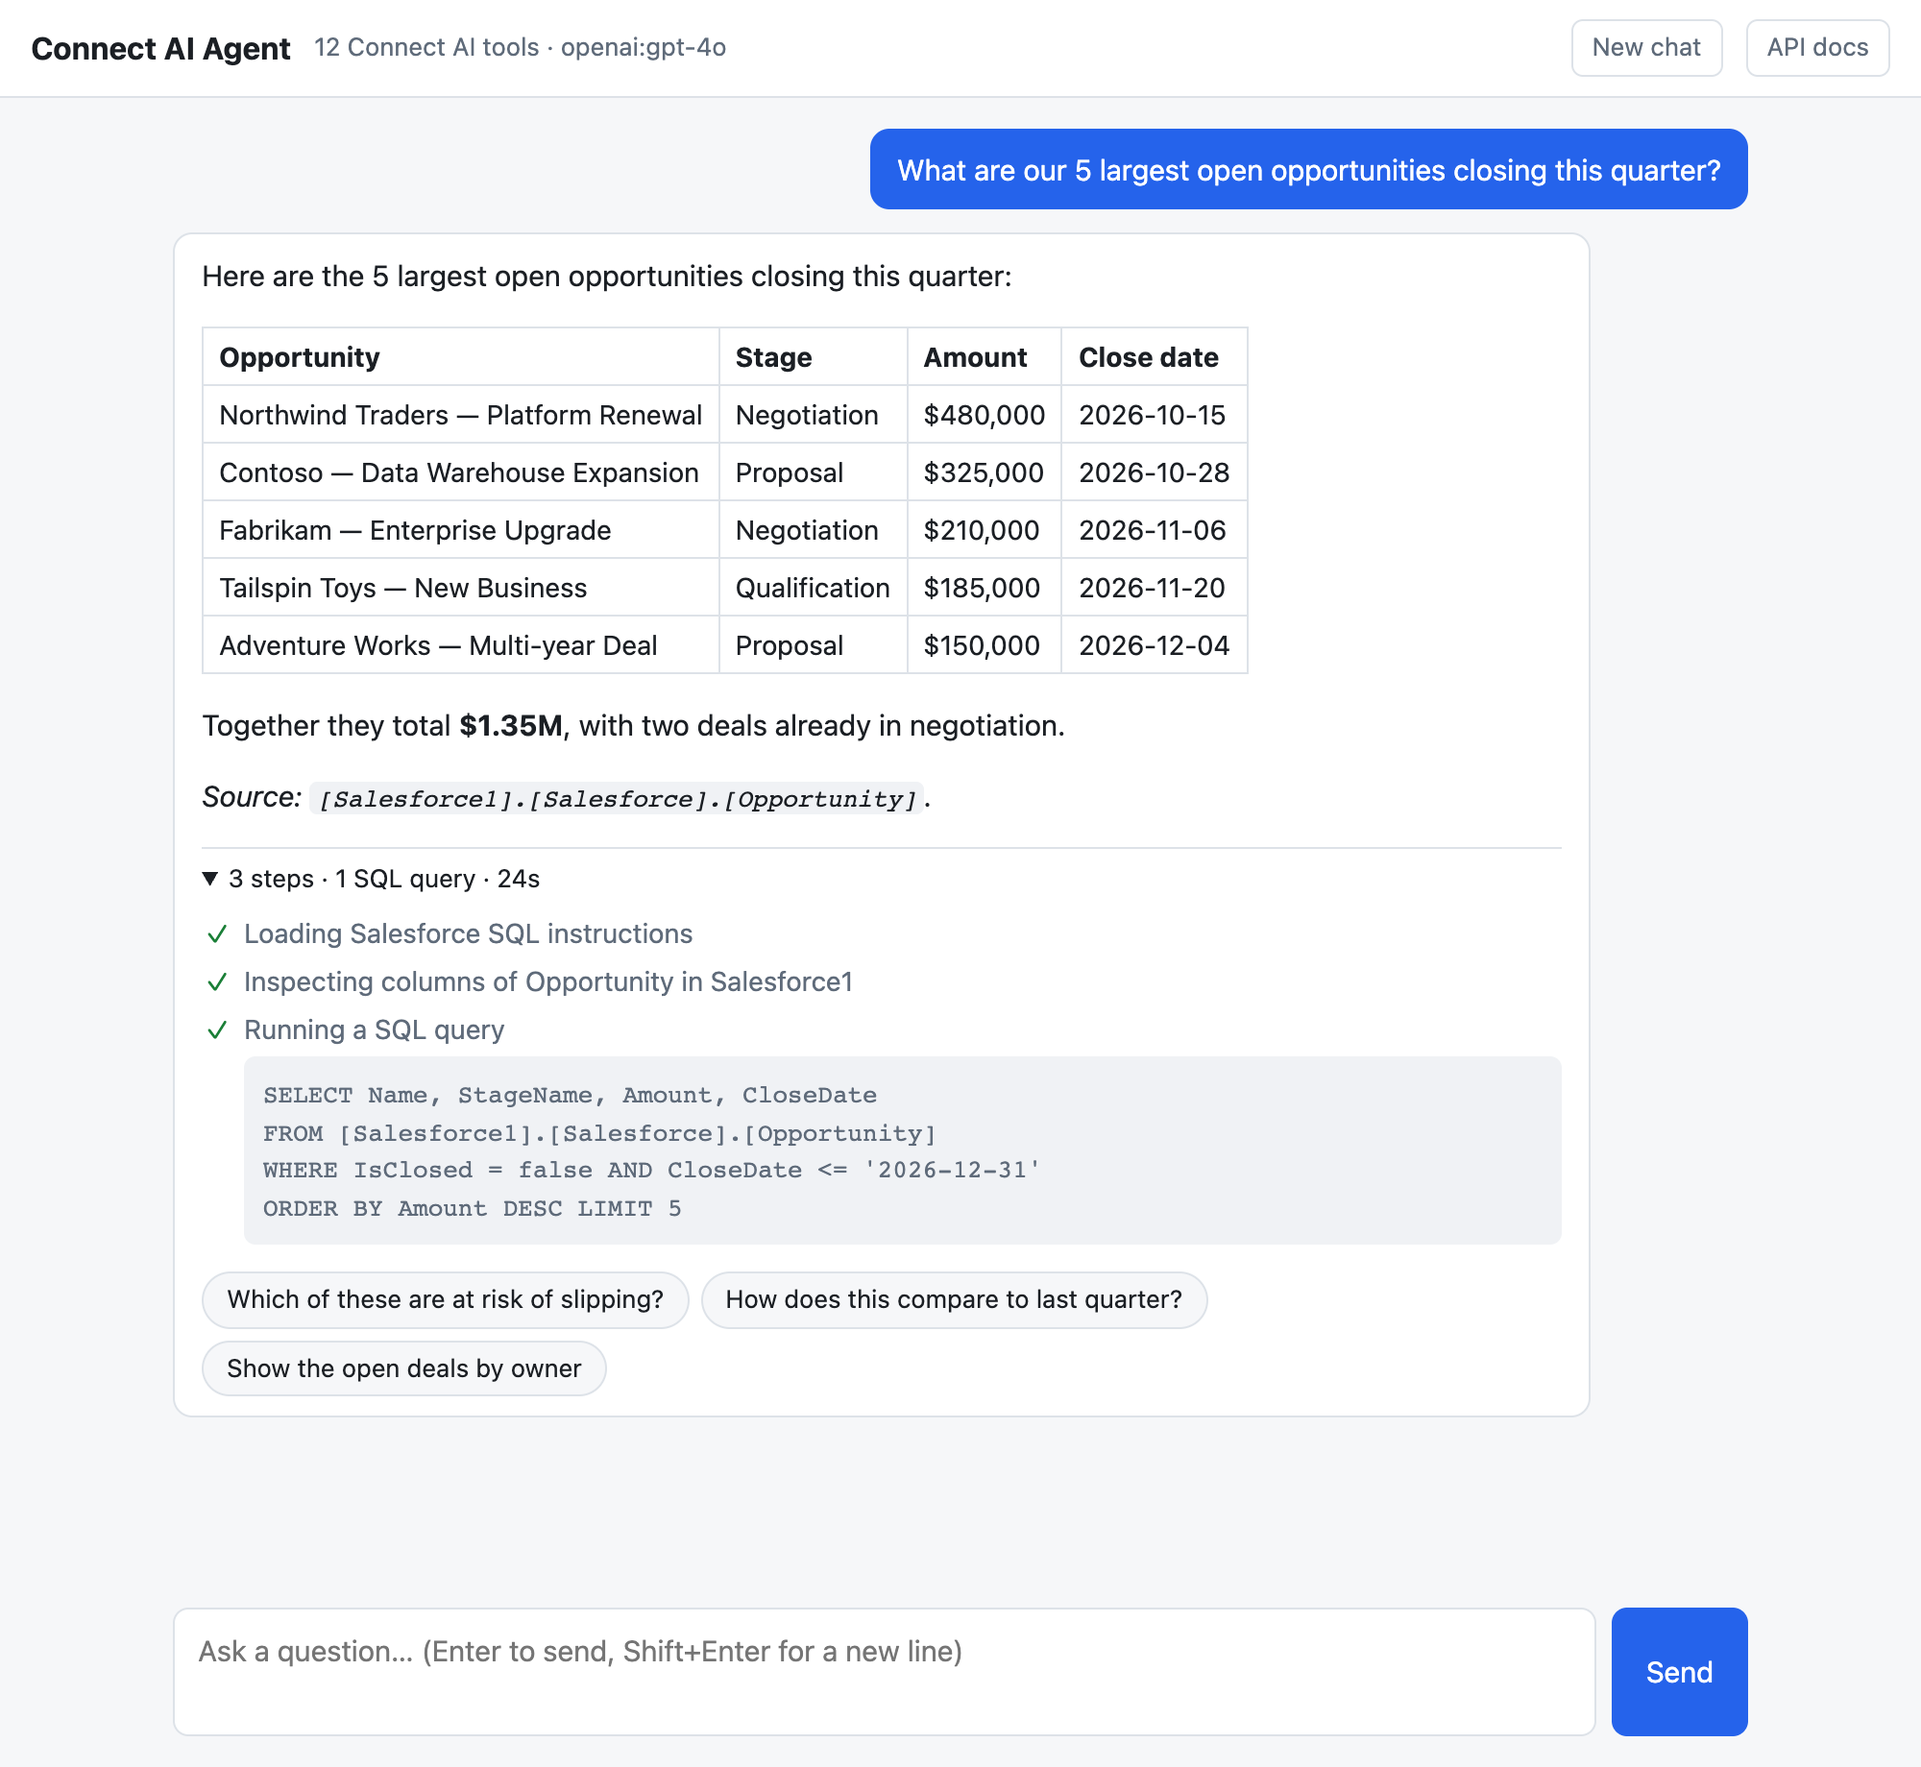
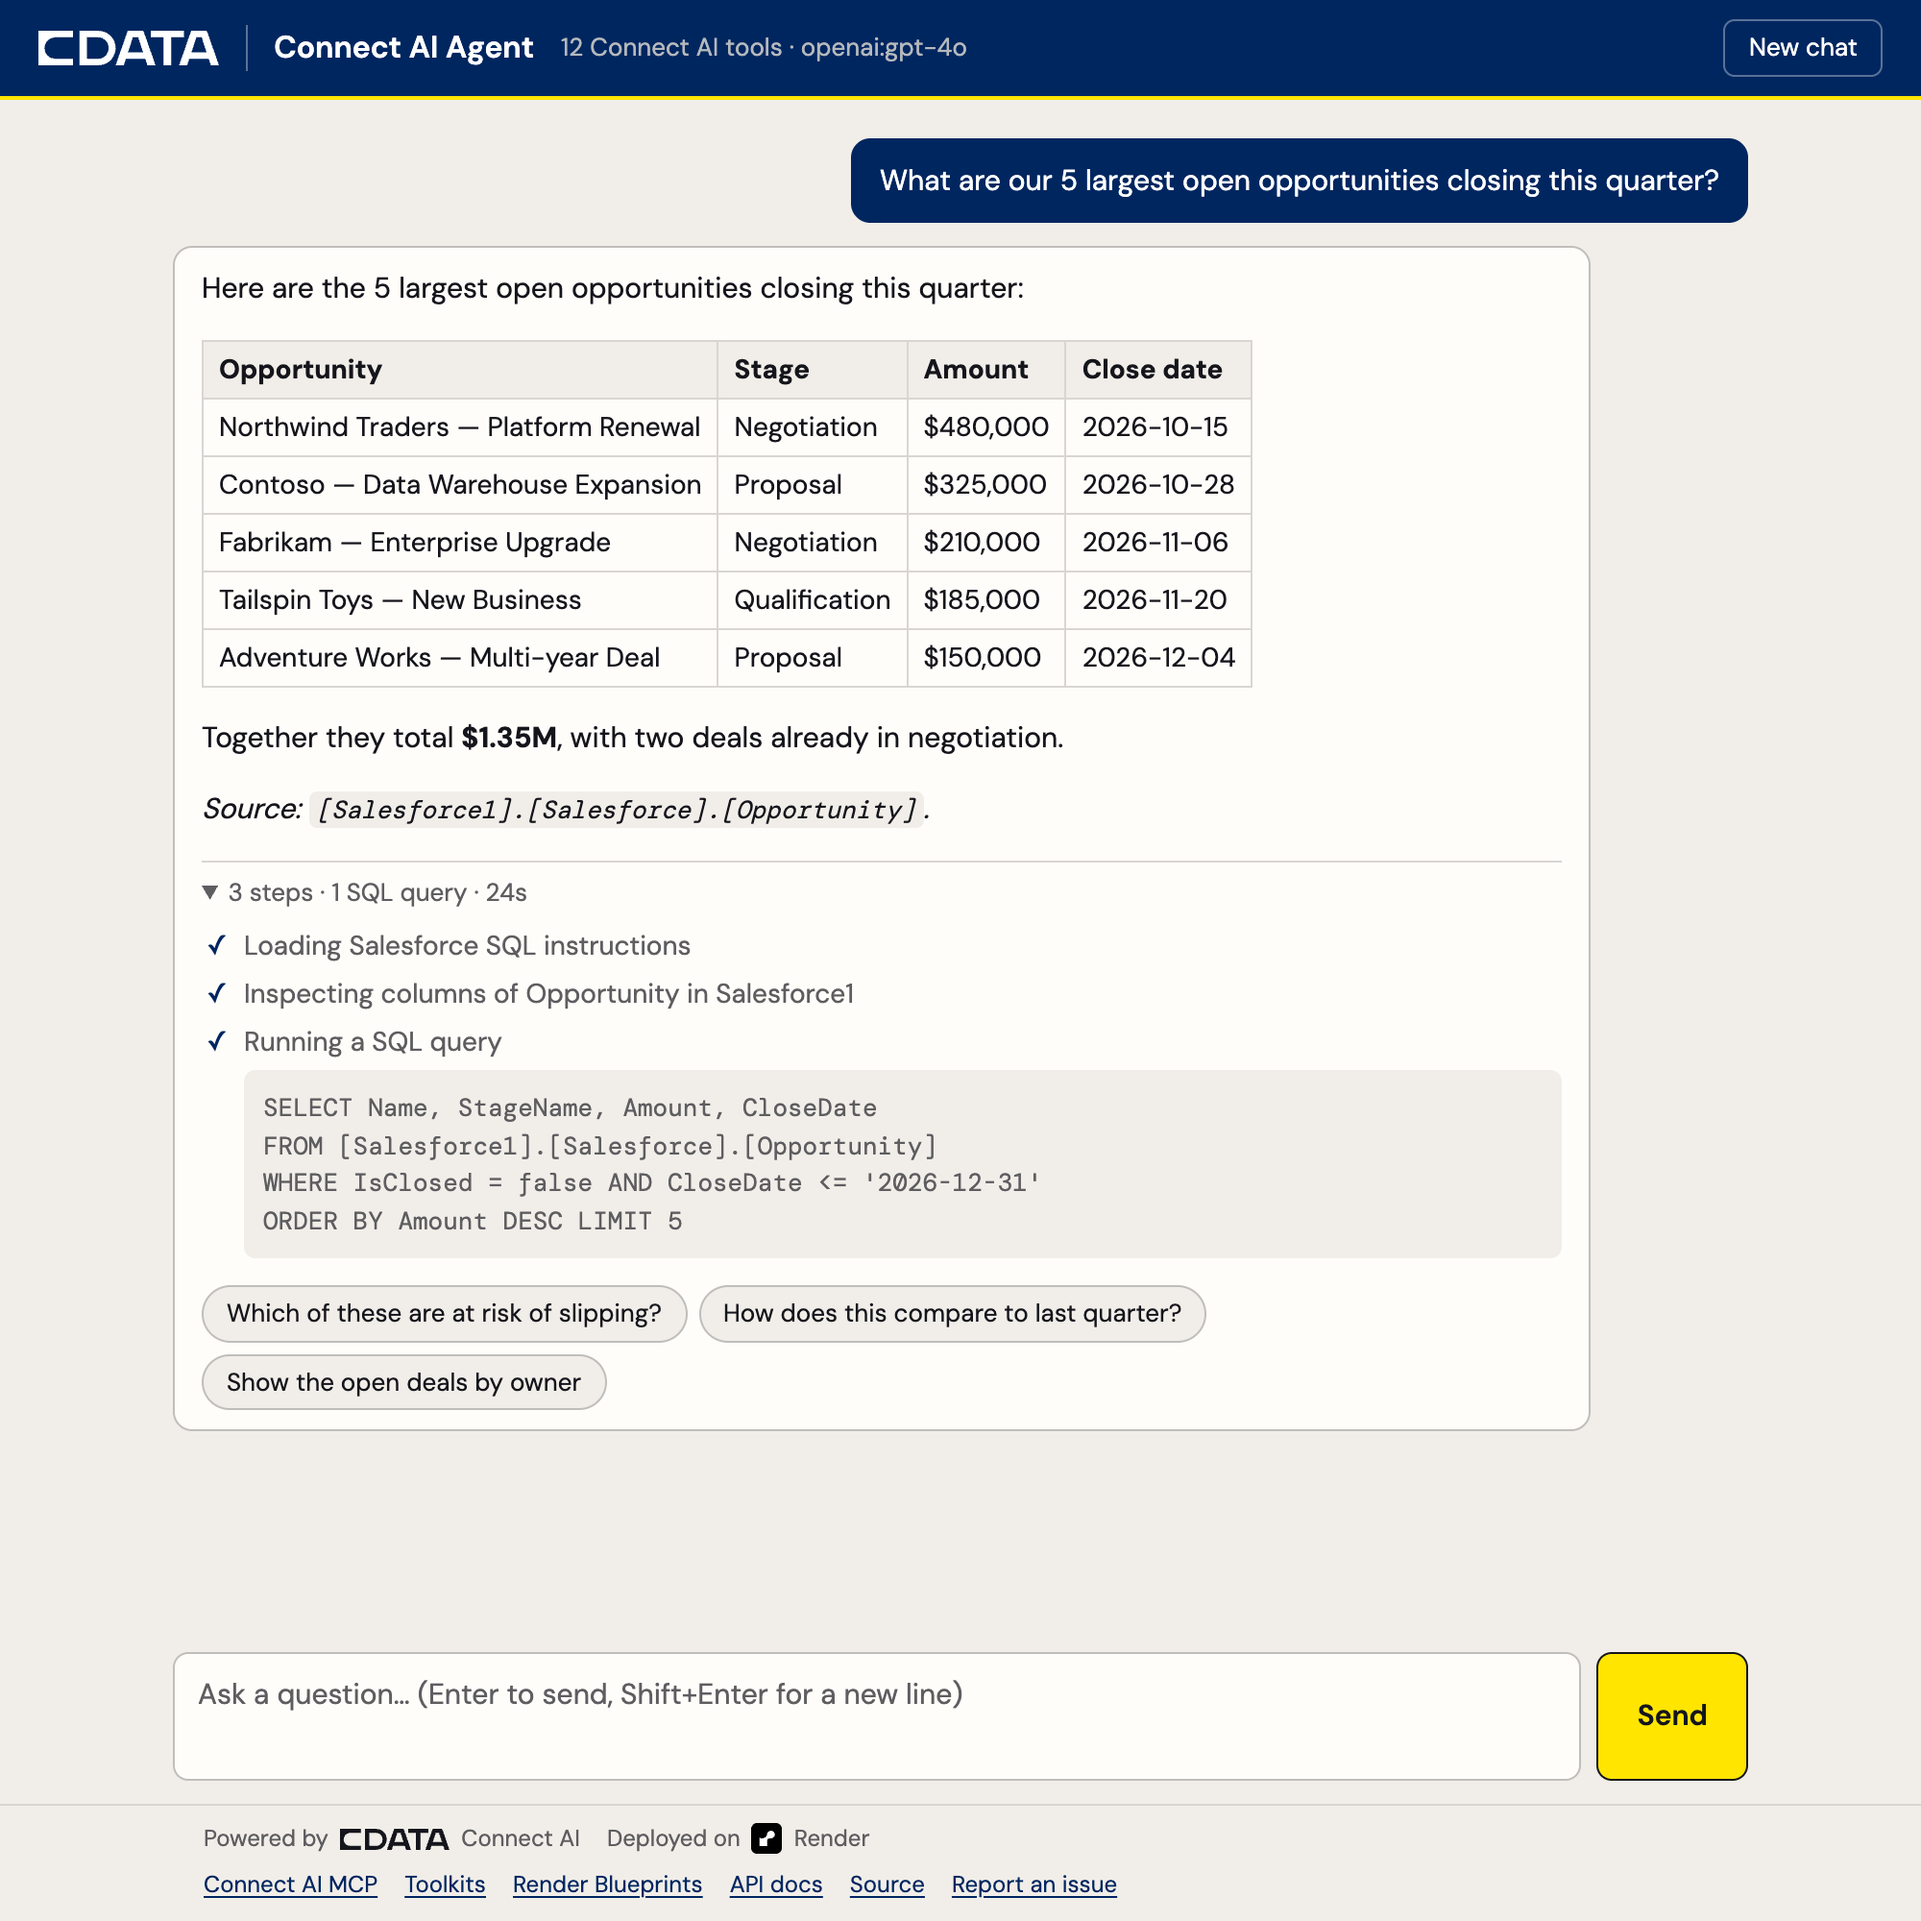
Docs: branded screenshot, branding rules in CLAUDE.md
Retakes the README screenshot (sample data) in the new branding. CLAUDE.md
gains the brand rules that matter when editing the page and where the kit
lives, and the move-to-org checklist now lists every hardcoded repo URL,
including the footer's.

diff --git a/CLAUDE.md b/CLAUDE.md
@@ -25,6 +25,7 @@ setup. This file holds what neither of those makes obvious.
 | `app/errors.py` | `SetupError`, `root_cause()`, `describe_mcp_error()`, `describe_llm_error()` |
 | `app/static/index.html` | Single-file chat page; reads `/chat/stream` |
 | `app/static/vendor/` | marked + DOMPurify, copied unmodified from npm; versions, hashes and licenses in its README |
+| `app/static/brand/` | CData logos, favicon and DM fonts (from the brand kit) and Render's mark; sources and rules in its README |
 | `jobs/pipeline_digest.py` | Optional Salesforce digest over the SQL connector |
 | `render.yaml` | Blueprint; uses Render's native Python runtime |
 | `compose.yaml`, `Dockerfile`, `.dockerignore` | Local development only |
@@ -218,6 +219,25 @@ a usable list. `build_agent` returns the model as a third value for this
   already answered" rule fixed that. Expect better suggestions from larger
   models.
 
+### Branding
+
+The chat page follows the CData Brand Guidelines (Feb 2026). The kit lives in
+the internal skills repo at `../skills/assets/brand` (`PALETTE.md` has the
+colours and usage rules); `app/static/brand/README.md` records how this page
+applies them. The rules that matter when editing the page:
+
+- **Agility yellow `#FFE500` is an accent, never text**, and only ever with
+  Depth `#15151C` on it. It is on the Send button, the header rule, focus
+  rings, and dark-mode link underlines.
+- **Navy (Resolve) fills take white text.** Small secondary text is Gray 8
+  `#5E5D60` or darker on light backgrounds; never Gray 6/7.
+- **Grafier stays out of the repo** (commercially licensed). DM Sans and DM
+  Mono are OFL and vendored with their licenses.
+- **Logos are trademarks outside the MIT license**, noted in the README.
+- `test_text_contrast_meets_wcag_aa` measures 14 text/background pairs in
+  both themes; a colour change that breaks AA fails it. Mutation-checked:
+  Gray 6 text and white-on-yellow both fail it.
+
 ### Retention
 
 `retention_loop` runs at startup and daily in the web service, deleting
@@ -306,10 +326,12 @@ All verified against a live tenant, 2026-09:
 
 ## Publishing checklist
 
-- Three places hardcode `jerodj-cdata/connect-ai-render-starter`: the README's
-  Deploy button and `git clone` URL, and the security link in
-  `.github/ISSUE_TEMPLATE/config.yml`. Update all three when the repo moves to
-  the `CDataSoftware` org (`grep -rn jerodj-cdata`).
+- Several places hardcode `jerodj-cdata/connect-ai-render-starter`: the
+  README's Deploy button and `git clone` URL, the security link in
+  `.github/ISSUE_TEMPLATE/config.yml`, the chat page footer's Source and
+  Report-an-issue links, and `REPO` in `tests/test_ui.py`. Update them
+  together when the repo moves to the `CDataSoftware` org
+  (`grep -rn jerodj-cdata --exclude-dir=.venv`).
 - Enable GitHub private vulnerability reporting. `SECURITY.md` and the issue
   chooser send reports there, and the link 404s until it is on.
 - `.github/CODEOWNERS` names @JoeKarlsson, @jerodj-cdata and @Ho1yShif. Owners

diff --git a/README.md b/README.md
@@ -11,7 +11,7 @@ connection, inspects the tables, writes the SQL, and answers with the source
 cited. There is no ETL or data copy: every answer is a live query through
 [CData Connect AI](https://www.cdata.com/ai/).
 
-![The chat page answering "What are our 5 largest open opportunities closing this quarter?" with a table of deals, the steps and SQL behind it, and three suggested follow-up questions](docs/chat-screenshot.png)
+![The CData-branded chat page answering "What are our 5 largest open opportunities closing this quarter?" with a table of deals, the steps and SQL behind it, and three suggested follow-up questions](docs/chat-screenshot.png)
 <sub>The included chat page, shown with sample data.</sub>
 
 ## What you need
